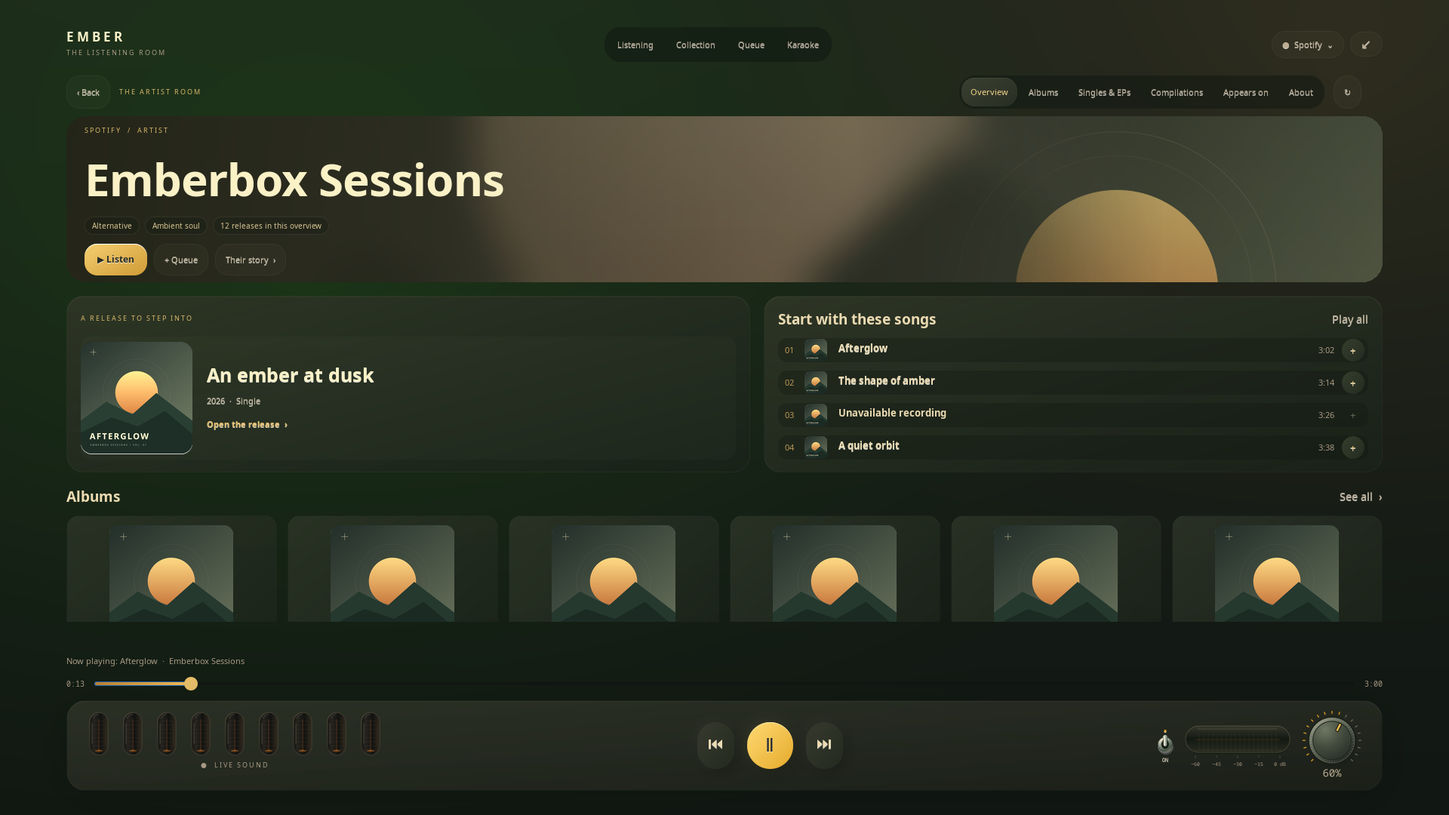
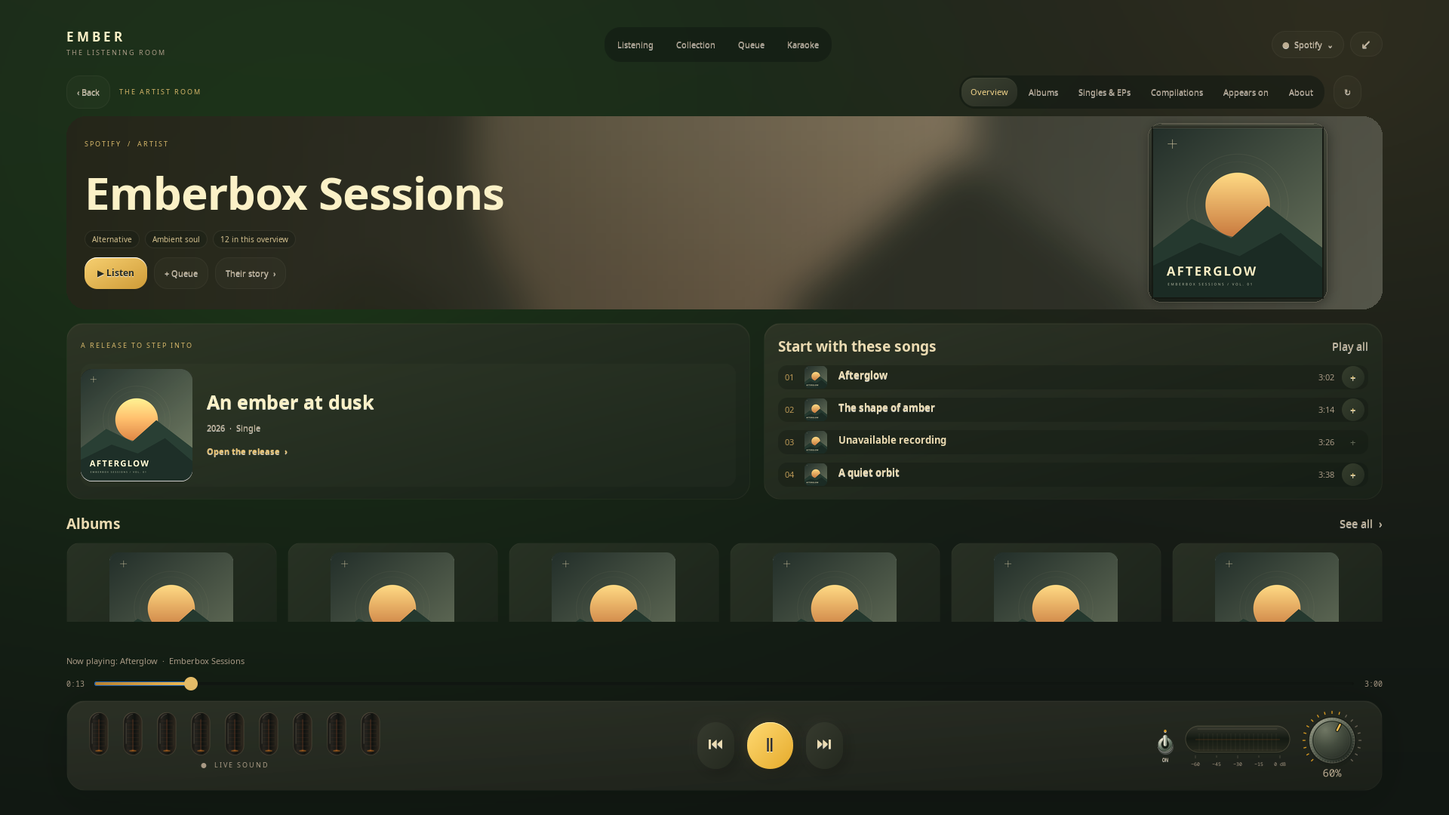
fix: present complete artist portraits in a matte frame over blurred photo

diff --git a/src/artist_header.py b/src/artist_header.py
@@ -5,19 +5,42 @@ from PIL import Image,ImageOps,ImageFilter,ImageEnhance,ImageDraw
 from gi.repository import Gtk,GdkPixbuf,GLib
 
 
+def portrait_slot(width,height):
+    """Leave a stable reading area; the photograph fits entirely to its right."""
+    return max(48,min(round(width*.28),round(height*1.5)))
+
+
 def compose(pixels,width,height):
     raw,size,alpha,stride=pixels
-    photo=Image.frombytes('RGBA' if alpha else 'RGB',size,raw,'raw','RGBA' if alpha else 'RGB',stride).convert('RGB')
-    base=ImageOps.fit(photo,(width,height),Image.Resampling.LANCZOS).filter(ImageFilter.GaussianBlur(24))
+    photo=Image.frombytes('RGBA' if alpha else 'RGB',size,raw,'raw','RGBA' if alpha else 'RGB',stride).convert('RGBA')
+    backdrop=Image.new('RGBA',photo.size,(35,41,31,255));backdrop.alpha_composite(photo)
+    backdrop=backdrop.convert('RGB')
+    base=ImageOps.fit(backdrop,(width,height),Image.Resampling.LANCZOS).filter(ImageFilter.GaussianBlur(24))
     base=ImageEnhance.Color(base).enhance(.4).convert('RGBA')
-    # A clearer portrait on the right fades into the quieter reading area.
-    part=min(width,int(height*3.2));portrait=ImageOps.fit(photo,(part,height),Image.Resampling.LANCZOS,centering=(.5,.18))
-    fade=Image.linear_gradient('L').rotate(90).resize((part,height))
-    fade=fade.point(lambda value:min(255,int(value*1.7)))
-    base.paste(portrait,(width-part,0),fade)
     shade=ImageOps.mirror(Image.linear_gradient('L').rotate(90)).resize((width,height)).point(lambda v:55+int(v*.71))
     base=Image.composite(Image.new('RGBA',(width,height),(26,30,22,255)),base,shade)
     warmth=Image.new('RGBA',(width,height),(178,118,34,14));base=Image.alpha_composite(base,warmth)
+    # The background is atmospheric; the actual photo is contained in full,
+    # with no face crop, stretching, edge fade or text painted over it.
+    slot=portrait_slot(width,height)
+    portrait=ImageOps.contain(photo,(max(1,slot-32),max(1,height-32)),Image.Resampling.LANCZOS)
+    x=width-slot+(slot-portrait.width)//2;y=(height-portrait.height)//2
+    bounds=(x-7,y-7,x+portrait.width+6,y+portrait.height+6)
+    shadow=Image.new('RGBA',(width,height));ImageDraw.Draw(shadow).rounded_rectangle(
+        tuple(value+(2 if index%2==0 else 3) for index,value in enumerate(bounds)),18,fill=(5,10,6,95))
+    base=Image.alpha_composite(base,shadow.filter(ImageFilter.GaussianBlur(7)))
+    # Shallow, matte metal: a restrained bevel rather than a bright border.
+    fw,fh=bounds[2]-bounds[0]+1,bounds[3]-bounds[1]+1
+    ramp=Image.blend(Image.linear_gradient('L').resize((fw,fh)),
+        ImageOps.mirror(Image.linear_gradient('L').rotate(90)).resize((fw,fh)),.25)
+    metal=ImageOps.colorize(ramp,(65,69,56),(25,30,24)).convert('RGBA')
+    bezel=Image.new('L',(fw,fh));ImageDraw.Draw(bezel).rounded_rectangle((0,0,fw-1,fh-1),18,fill=255);metal.putalpha(bezel)
+    frame=Image.new('RGBA',(width,height));frame.alpha_composite(metal,bounds[:2]);edge=ImageDraw.Draw(frame)
+    edge.rounded_rectangle(bounds,18,outline=(226,215,183,42),width=1)
+    edge.line((bounds[0]+18,bounds[1]+1,bounds[2]-18,bounds[1]+1),fill=(247,231,193,48))
+    edge.rectangle((x-2,y-2,x+portrait.width+1,y+portrait.height+1),outline=(9,14,9,180),width=2)
+    edge.line((x-1,y-1,x+portrait.width,y-1),fill=(243,229,193,25))
+    base=Image.alpha_composite(base,frame);base.alpha_composite(portrait,(x,y))
     mask=Image.new('L',(width,height));ImageDraw.Draw(mask).rounded_rectangle((0,0,width-1,height-1),26,fill=255)
     base.putalpha(mask)
     return base.tobytes()
@@ -37,26 +60,54 @@ class BannerCache:
 
 class ArtistBanner(Gtk.Overlay):
     def __init__(self,content,uri,cache,height):
-        super().__init__();self.uri=uri;self.cache=cache;self.pixels=None;self.key=None;self.closed=False
+        super().__init__();self.uri=uri;self.cache=cache;self.pixels=None;self.key=None;self.closed=False;self.content=content
         self.get_style_context().add_class('stage-artist-banner')
-        base=Gtk.Box();base.set_size_request(-1,height);self.add(base)
+        self.minimum_height=height;self.photo_area_width=0;self.height_idle=0;self.requested_height=height
+        self.base=Gtk.Box();self.base.set_size_request(-1,height);self.add(self.base)
         self.background=Gtk.Image();self.background.set_halign(Gtk.Align.FILL);self.background.set_valign(Gtk.Align.FILL)
         self.add_overlay(self.background);self.set_overlay_pass_through(self.background,True)
         content.get_style_context().add_class('stage-artist-banner-content')
-        content.set_valign(Gtk.Align.CENTER);self.add_overlay(content)
+        content.set_valign(Gtk.Align.FILL);self.add_overlay(content)
         self.source_image=Gtk.Image()
+        self.connect('get-child-position',self.position_content)
         self.connect('size-allocate',lambda *_:self.render())
         self.connect('destroy',self.close)
+
+    def position_content(self,_overlay,widget,area):
+        if widget is not self.content:return False
+        width,height=self.get_allocated_width(),self.get_allocated_height()
+        self.photo_area_width=portrait_slot(width,height) if self.uri else 0
+        area.x=0;area.width=max(1,width-self.photo_area_width)
+        needed=self.content.get_preferred_height_for_width(area.width)[1]
+        # Overlay children otherwise take their natural width even when that
+        # would put the controls across the photo. Reserve its space before
+        # allocating text, and allow a wrapped heading to grow the masthead.
+        desired=max(self.minimum_height,needed)
+        self.requested_height=desired
+        if self.base.get_size_request()[1]!=desired and not self.height_idle:
+            # GTK can drop a resize queued from inside size allocation. Apply
+            # the new request outside it, before the following frame's layout.
+            self.height_idle=GLib.idle_add(self.resize_content,priority=GLib.PRIORITY_DEFAULT)
+        area.y=max(0,(height-needed)//2);area.height=needed
+        return True
+
+    def resize_content(self):
+        self.height_idle=0
+        if not self.closed:
+            self.base.set_size_request(-1,self.requested_height);self.queue_resize()
+        return False
 
     def set_photo(self,pixels):
         if self.closed or not pixels:return
         self.pixels=(bytes(pixels.get_pixels()),(pixels.get_width(),pixels.get_height()),pixels.get_has_alpha(),pixels.get_rowstride())
+        self.key=None
         self.render()
 
     def render(self):
         width,height=self.get_allocated_width(),self.get_allocated_height()
-        if self.closed or not self.pixels or width<10 or height<10:return
+        if self.closed or width<10 or height<10:return
         width=min(3840,width);height=min(600,height)
+        if not self.pixels:return
         key=(self.uri,width,height)
         if key==self.key:return
         self.key=key;cached=self.cache.get(key)
@@ -76,3 +127,4 @@ class ArtistBanner(Gtk.Overlay):
 
     def close(self,*_args):
         self.closed=True;self.pixels=None;self.source_image.destroy()
+        if self.height_idle:GLib.source_remove(self.height_idle);self.height_idle=0

diff --git a/src/artwork.py b/src/artwork.py
@@ -31,10 +31,11 @@ class Artwork:
                 return path.as_uri()
         return ''
 
-    def load(self, widget, url, size, radius=8, preserve=False, on_loaded=None, high_quality=False):
+    def load(self, widget, url, size, radius=8, preserve=False, on_loaded=None, high_quality=False, keep_aspect=False):
         existing = widget.get_pixbuf() if preserve else None
         widget.set_size_request(size, size)
         token = (url, size, radius) + (('original-v1',) if high_quality else ())
+        if keep_aspect:token+=('aspect-v1',)
         widget._art_token = token
         if not getattr(widget, '_art_destroy_connected', False):
             widget.connect('destroy', lambda target: setattr(target, '_art_token', None))
@@ -62,7 +63,7 @@ class Artwork:
             if not path.exists() or time.time() - path.stat().st_mtime > 86400:
                 if url.startswith('https://'):
                     source = None
-                    candidates = still_candidates(url, max(1200, size*2)) if len(token)>3 else [url]
+                    candidates = still_candidates(url, max(1200, size*2)) if 'original-v1' in token else [url]
                     for candidate in candidates:
                         if getattr(widget, '_art_token', None) != token:
                             return
@@ -93,11 +94,16 @@ class Artwork:
                 else:
                     source = Image.open(self.placeholder)
                 source = ImageOps.exif_transpose(source).convert('RGBA')
-                image = (ImageOps.pad if len(token)>3 else ImageOps.fit)(source, (size, size), Image.Resampling.LANCZOS)
-                mask = Image.new('L', (size*3, size*3))
-                ImageDraw.Draw(mask).rounded_rectangle((0, 0, size*3 - 1, size*3 - 1), radius*3, fill=255)
-                mask = mask.resize((size,size),Image.Resampling.LANCZOS)
-                image.putalpha(mask)
+                if 'aspect-v1' in token:
+                    # Artist portraits keep their real proportions, without
+                    # square padding or a thumbnail crop before composition.
+                    image=ImageOps.contain(source,(size,size),Image.Resampling.LANCZOS)
+                else:
+                    image = (ImageOps.pad if 'original-v1' in token else ImageOps.fit)(source, (size, size), Image.Resampling.LANCZOS)
+                    mask = Image.new('L', (size*3, size*3))
+                    ImageDraw.Draw(mask).rounded_rectangle((0, 0, size*3 - 1, size*3 - 1), radius*3, fill=255)
+                    mask = mask.resize((size,size),Image.Resampling.LANCZOS)
+                    image.putalpha(mask)
                 temp = path.with_suffix(f'.{threading.get_ident()}.next.png')
                 image.save(temp)
                 temp.replace(path)

diff --git a/tests/test_artist_header.py b/tests/test_artist_header.py
@@ -1,0 +1,37 @@
+"""The clear artist photo must retain all four edges and original proportions."""
+import sys,unittest
+from pathlib import Path
+sys.path.insert(0,str(Path(__file__).resolve().parents[1]/'src'))
+from PIL import Image,ImageDraw
+import numpy as np
+import gi
+gi.require_version('Gtk','3.0')
+from artist_header import compose
+
+class ArtistPortraits(unittest.TestCase):
+    def test_all_four_photo_corners_survive_landscape_square_and_tall_sources(self):
+        colors=((255,0,0),(0,255,0),(0,0,255),(255,255,0))
+        for size in ((240,360),(360,240),(240,240),(720,120)):
+            source=Image.new('RGB',size,(130,130,130));draw=ImageDraw.Draw(source)
+            w,h=size;bw,bh=w//5,h//5
+            for bounds,color in zip(((0,0,bw,bh),(w-bw-1,0,w-1,bh),
+                                      (0,h-bh-1,bw,h-1),(w-bw-1,h-bh-1,w-1,h-1)),colors):draw.rectangle(bounds,fill=color)
+            pixels=(source.tobytes(),size,False,w*3)
+            for width,height in ((1744,220),(928,152)):
+                with self.subTest(source=size,banner=(width,height)):
+                    result=np.asarray(Image.frombytes('RGBA',(width,height),compose(pixels,width,height)))
+                    corners=[]
+                    for color in colors:
+                        ys,xs=np.where(np.all(result[:,:,:3]==color,axis=2)&(result[:,:,3]==255))
+                        self.assertGreater(len(xs),0,f'Photo corner {color} was cropped or faded')
+                        corners.append((xs.min(),ys.min(),xs.max(),ys.max()))
+                    left=min(c[0] for c in corners);right=max(c[2] for c in corners)
+                    top=min(c[1] for c in corners);bottom=max(c[3] for c in corners)
+                    self.assertGreater(left,width*.65,'The clear photo must stay away from the reading area')
+                    self.assertGreater(top,7);self.assertLess(bottom,height-8)
+                    self.assertAlmostEqual((right-left+1)/(bottom-top+1),w/h,delta=.07,
+                        msg='The full photograph must not be stretched')
+                    self.assertLess(corners[0][2],corners[1][0]);self.assertLess(corners[0][3],corners[2][1])
+                    self.assertEqual(int(result[0,0,3]),0,'The outer banner retains rounded corners')
+
+if __name__=='__main__':unittest.main()

diff --git a/tests/test_cover_sources.py b/tests/test_cover_sources.py
@@ -125,6 +125,25 @@ https://unrelated.invalid/injected.m3u8
                 self.assertEqual(changes[-1],'')
         finally:client.close()
 
+    def test_artist_photo_cache_keeps_aspect_and_source_edges(self):
+        loader=Artwork()
+        try:
+            with tempfile.TemporaryDirectory() as folder:
+                loader.folder=Path(folder)/'cache';loader.folder.mkdir()
+                photo=Image.new('RGB',(200,400),'green')
+                for y in range(20):
+                    for x in range(200):photo.putpixel((x,y),(255,0,0));photo.putpixel((x,399-y),(0,0,255))
+                path=Path(folder)/'portrait.png';photo.save(path)
+                token=(path.as_uri(),400,0,'original-v1','aspect-v1')
+                widget=SimpleNamespace(_art_token=token)
+                with patch('artwork.GLib.idle_add'):loader._fetch(widget,token,None)
+                saved=next(loader.folder.glob('*.png'))
+                with Image.open(saved) as output:
+                    self.assertEqual(output.size,(200,400))
+                    self.assertEqual(output.getpixel((100,0)),(255,0,0,255))
+                    self.assertEqual(output.getpixel((100,399)),(0,0,255,255))
+        finally:loader.pool.shutdown(wait=False,cancel_futures=True)
+
     def test_high_quality_fetch_uses_original_and_falls_back_to_larger_response(self):
         def png(size,color):
             buffer=io.BytesIO();Image.new('RGB',size,color).save(buffer,format='PNG');return buffer.getvalue()

diff --git a/tests/artist_smoke.py b/tests/artist_smoke.py
@@ -150,6 +150,11 @@ with patch('urllib.request.urlopen',side_effect=AssertionError('Unexpected netwo
                 x,y=child.translate_coordinates(stage.window,0,0);a=child.get_allocation()
                 assert child.get_mapped() and x>=0 and y>=0 and x+a.width<=width+2 and y+a.height<=height+2,(type(child).__name__,(x,y,a.width,a.height),(width,height))
             assert view.content.get_allocation().width<=view.scroll.get_allocation().width+2,'Artist page overflowed horizontally'
+            banner=view.hero_banner
+            bx,by,bw,bh=rectangle(banner,stage.window);cx,cy,cw,ch=rectangle(banner.content,stage.window)
+            assert banner.photo_area_width>0,'Reserve the full portrait before painting the heading'
+            assert cx+cw<=bx+bw-banner.photo_area_width+2,('Artist text must not overlap the complete photo',(width,height),(bx,by,bw,bh),(cx,cy,cw,ch),banner.photo_area_width)
+            assert cy>=by and cy+ch<=by+bh+2,('The heading and controls must stay inside the masthead',(width,height),(bx,by,bw,bh),(cx,cy,cw,ch))
             adjustment=view.scroll.get_vadjustment()
             assert adjustment.get_upper()>adjustment.get_page_size(),'The complete artist catalogue must remain scrollable'
             adjustment.set_value(adjustment.get_upper()-adjustment.get_page_size());f.settle(.1)

diff --git a/src/artist_view.py b/src/artist_view.py
@@ -309,7 +309,8 @@ class ArtistView(Gtk.Box):
             self.hero_banner=banner
             def photo(pixels):
                 if not banner.closed and pixels:banner.set_photo(pixels)
-            self.artwork.load(banner.source_image,value.get('image',''),1000,0,high_quality=True,on_loaded=photo)
+            if value.get('image'):
+                self.artwork.load(banner.source_image,value['image'],1000,0,high_quality=True,keep_aspect=True,on_loaded=photo)
             self.content.pack_start(banner,False,False,0)
 
     def section_items(self,key):

diff --git a/docs/ARTISTS.ru.md b/docs/ARTISTS.ru.md
@@ -11,11 +11,17 @@
 
 ## Тёплый портрет
 
-Панорамный портрет растворяется в оливково-угольном фоне:
-крупное кремовое имя, плашки доступных жанров и янтарные кнопки.
-Изображение артиста задаёт сдержанный фон и более чёткую правую часть.
-Если фото не пришло, остаётся спокойное оформление. Подготовка изображения
-идёт вне GTK; готовые шапки хранятся в небольшом ограниченном кэше.
+Справа — фотография артиста целиком в сдержанной матовой металлической рамке:
+тонкая фаска, тёплый блик и мягкая тень. Вертикальные, горизонтальные
+и квадратные снимки сохраняют исходные пропорции и все края. Позади —
+увеличенная, мягко размытая копия того же фото в тёплых оттенках. Чёткий снимок
+не растягивается и не растворяется в фоне.
+
+У кремового имени, плашек жанров и янтарных кнопок своя область, без наложения
+на фотографию. При переносе заголовка шапка становится выше. Если фото нет,
+остаётся спокойный градиент. Загрузка и обработка идут вне GTK; фотографии
+с исходными пропорциями отделены в кэше от квадратных обложек, а готовые шапки
+хранятся в небольшом ограниченном кэше памяти.
 
 **Обзор**, **Все релизы** (Apple Music), **Альбомы**, **Синглы и EP**, **Сборники**, **Участия** и **Об артисте**
 объединены с компактной панелью над прокруткой. В Обзоре горизонтальный релиз

diff --git a/README.ru.md b/README.ru.md
@@ -108,7 +108,7 @@ cd emberbox-audio
 
 Перетаскивай виджет за верхнюю полоску или обложку. Кнопка **Mini** включает компактный режим. Крути громкость колесом или перетаскиванием, с Shift — точнее. Металлический тумблер выключает звук и сохраняет выбранную громкость.
 
-Это ранний выпуск **v0.12.3**. Личные подборки зависят от внутренних интерфейсов клиента Spotify и могут потребовать обновления интеграции после обновления клиента. Интерфейс публичной версии в основном на английском; названия подборок приходят из Spotify.
+Это ранний выпуск **v0.12.4**. Личные подборки зависят от внутренних интерфейсов клиента Spotify и могут потребовать обновления интеграции после обновления клиента. Интерфейс публичной версии в основном на английском; названия подборок приходят из Spotify.
 
 [English README](README.md) · [Установка и удаление](docs/INSTALL.ru.md) · [Второй плеер](https://github.com/BlackSnaker/emberbox-video) · [MIT](LICENSE)
 

diff --git a/CHANGELOG.ru.md b/CHANGELOG.ru.md
@@ -2,6 +2,12 @@
 
 [English](CHANGELOG.md) · **Русский**
 
+## 0.12.4 — 2026-10-23
+
+- Показывать фотографию артиста целиком с исходными пропорциями в матовой металлической рамке с тонкой фаской. Позади — мягко размытая и тонированная копия того же снимка.
+- Выделять место под фото до размещения заголовка и кнопок; увеличивать высоту шапки при переносе текста. Отделить кэш фотографий от квадратных обложек и сохранять все края исходника.
+- Проверить вертикальные, горизонтальные, квадратные и панорамные фото, сохранение краёв и пропорций, а также GTK на трёх размерах экрана на русском и английском. Обновить превью артиста.
+
 ## 0.12.3 — 2026-10-23
 
 - Закрепить нижнюю панель и перемотку при переносе названия трека на две строки. Резервировать место под название и рассчитывать размер обложки по реальной высоте шапки, метаданных и панели управления.

diff --git a/docs/ARTISTS.md b/docs/ARTISTS.md
@@ -11,11 +11,17 @@ not start a track.
 
 ## A warmer portrait
 
-A panoramic portrait fades into olive charcoal: a large cream name, available
-genre badges and amber playback controls. The artist's image supplies the
-restrained background and clearer right edge. Missing photos
-retain a quiet fallback. Image preparation runs away from GTK and completed
-banners use a small bounded cache.
+The artist's complete photograph sits inside a restrained matte metal frame on
+the right: a shallow bevel, a fine warm highlight and a soft shadow. Portrait,
+landscape and square photos keep their original proportions and all source
+edges. A larger, softly blurred copy of the same photo supplies the warm
+background; the clear photograph is never stretched or faded away.
+
+The cream name, genre badges and amber controls have their own reading area,
+so they do not cover the photograph. The masthead grows when the heading needs
+more room. Missing photos retain a quiet gradient fallback. Photo loading and
+composition run away from GTK; original-aspect photos use a separate thumbnail
+cache entry and completed banners use a small bounded memory cache.
 
 **Overview**, **All releases** (Apple Music), **Albums**, **Singles & EPs**, **Compilations**, **Appears on** and
 **About** share the compact toolbar above the scroll area. Overview pairs a

diff --git a/CHANGELOG.md b/CHANGELOG.md
@@ -2,6 +2,12 @@
 
 **English** · [Русский](CHANGELOG.ru.md)
 
+## 0.12.4 — 2026-10-23
+
+- Show the complete artist photograph at its original aspect ratio inside a shallow matte metal frame, over a softly blurred, tinted copy of the same photo.
+- Reserve a separate portrait area before allocating the heading and controls; let the masthead grow for wrapped text. Keep artist photo caches separate from square cover thumbnails and retain all source edges.
+- Check portrait, landscape, square and panoramic photos, edge preservation, original photo proportions and English/Russian GTK layouts at three screen sizes. Refresh the artist previews.
+
 ## 0.12.3 — 2026-10-23
 
 - Keep the fullscreen console and progress bar stationary when a track title wraps to two lines. Reserve title space and size artwork against measured header, metadata and footer heights.
